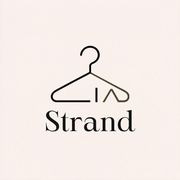
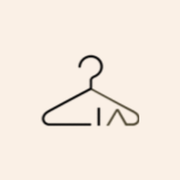
fix(pwa): el icono que iOS instala vivía en src/app, no en public
El commit anterior se quedó a medias: regeneró los iconos de public/ pero el
que iOS usa de verdad es `src/app/apple-icon.png`, que seguía con la palabra
"Strand". Por eso instalar la PWA en el iPhone seguía dando el icono viejo.

Los iconos viven en DOS sitios y es fácil arreglar solo uno:

  public/    los que nombra el manifest (Android, escritorio) y el <link>
             manual de layout.tsx
  src/app/   la convención de ficheros de Next. Emite SUS PROPIAS etiquetas
             <link>, que van DESPUÉS de las manuales en el <head> — así que
             en iOS ganaba src/app/apple-icon.png y "arreglar" public/ no
             cambiaba nada.

`build-app-icons.mjs` escribe ahora en los dos sitios.

Y se quita el `<link rel="apple-touch-icon">` manual de layout.tsx. No es solo
por quitar el duplicado: apuntaba a una ruta SIN versión, así que una vez que
iOS cacheaba ese icono no había forma de actualizarlo. La etiqueta de Next
lleva un hash del contenido, con lo que cambiar el archivo cambia la URL y el
caché se invalida solo. Comprobado: el hash pasó de 0alfcd11-f.zl a
0fm983ew6ns3r al regenerar el archivo.

public/apple-touch-icon.png se conserva aunque ya no lo enlace nadie: está en
PRECACHE_URLS del service worker y quitarlo de ahí sin cuidado rompe el
install del SW entero (cache.addAll falla si un solo recurso falla).

Verificación: build limpio, queda UNA sola etiqueta apple-touch-icon, y
/apple-icon.png y /icon.png sirven el gancho.
[…]

Changed region(s): [[0.2222, 0.25, 0.7778, 0.75]]

diff --git a/src/app/layout.tsx b/src/app/layout.tsx
@@ -76,7 +76,13 @@ export default function RootLayout({
       className={`${hanken.variable} ${caslon.variable} h-full`}
     >
       <head>
-        <link rel="apple-touch-icon" href="/apple-touch-icon.png" />
+        {/* El <link rel="apple-touch-icon"> ya NO se escribe a mano: lo emite
+            Next desde src/app/apple-icon.png, y su URL lleva un hash del
+            contenido. Eso importa — la etiqueta manual apuntaba a una ruta sin
+            versión, así que iOS se quedaba con el icono viejo para siempre.
+            Además Next inserta la suya DESPUÉS, con lo que la manual quedaba
+            ignorada y "arreglar" el archivo de public/ no cambiaba nada.
+            public/apple-touch-icon.png se conserva: lo precachea el SW. */}
         <AppleSplashLinks />
         <link
           rel="stylesheet"
